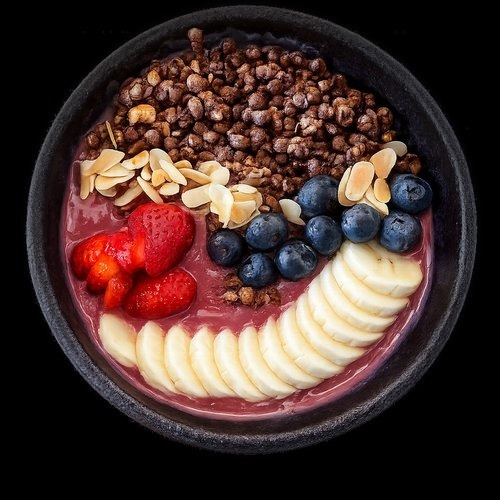
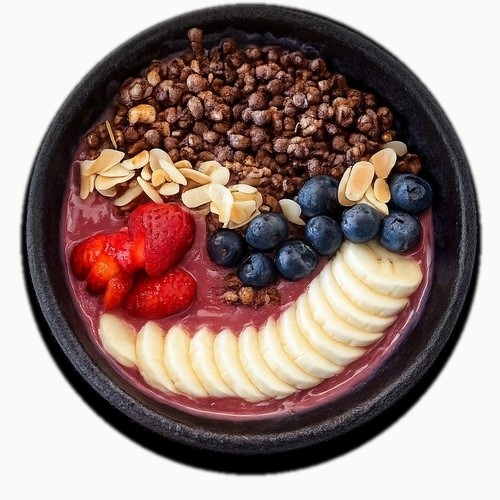
Clean print menu bowl image artifacts

diff --git a/akca-food-print-menu.html b/akca-food-print-menu.html
@@ -256,7 +256,7 @@ body{font-family:"DM Sans",sans-serif;color:var(--charcoal);display:flex;justify
         </div>
       </div>
       <div class="pm-card pm-item">
-        <img src="./bowl-power-chicken-print-clean.jpg" alt="Power Chicken Bowl">
+        <img src="./bowl-power-chicken-print-clean.jpg?v=3" alt="Power Chicken Bowl">
         <div class="pm-body">
                     <div class="pm-name-block"><span class="pm-name">Power Chicken Bowl</span><span class="pm-tr">Güç Tavuk Kase</span></div>
           <div class="pm-desc-wrap">
@@ -282,7 +282,7 @@ body{font-family:"DM Sans",sans-serif;color:var(--charcoal);display:flex;justify
         </div>
       </div>
       <div class="pm-card pm-item">
-        <img src="./bowl-acai.jpg" alt="Açaí Bowl">
+        <img src="./bowl-acai.jpg?v=3" alt="Açaí Bowl">
         <div class="pm-body">
                     <div class="pm-name-block"><span class="pm-name">Açaí Bowl</span><span class="pm-tr">Açaí Kase</span></div>
           <div class="pm-desc-wrap">